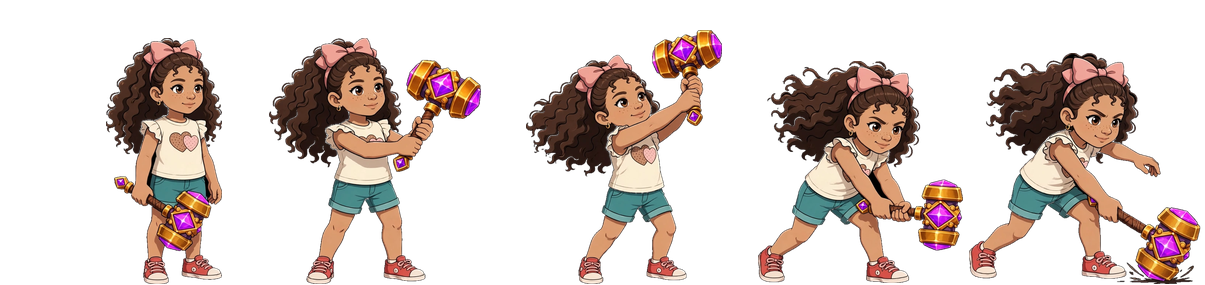
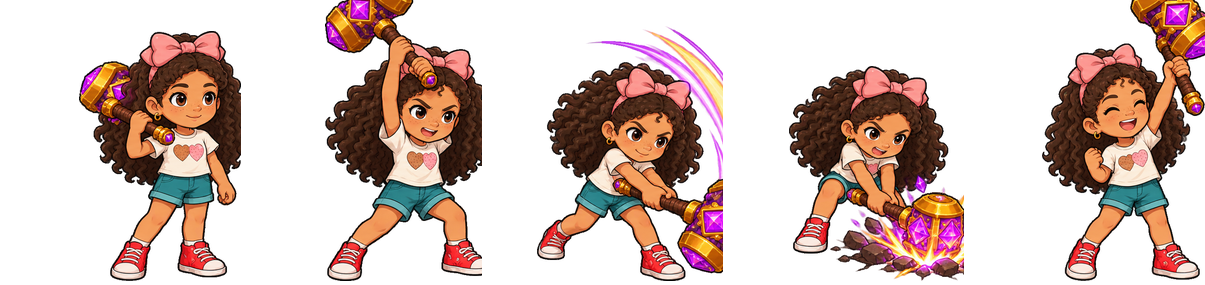
All weapon sheets from ChatGPT takes (Angelo-directed): bow/boomerang/wand/hammer/ray rebuilt on exact grids, canonical body 250, all Player scale factors back to 1.0

diff --git a/src/entities/Player.ts b/src/entities/Player.ts
@@ -103,11 +103,11 @@ export class Player {
       // with every weapon: sword 310px, bow 198px, boomerang 209px, wand 220px,
       // hammer 241px, ray 235px.
       angely_sword: scaleForHeight("angely", HEIGHT, "idle"), // ChatGPT take 2026-10-21: body canonical 250
-      angely_bow: scaleForHeight("angely", HEIGHT, "idle") * 1.263,
-      angely_hammer: scaleForHeight("angely", HEIGHT, "idle") * 1.037,
-      angely_boomerang: scaleForHeight("angely", HEIGHT, "idle") * 1.196,
-      angely_wand: scaleForHeight("angely", HEIGHT, "idle") * 1.136,
-      angely_ray: scaleForHeight("angely", HEIGHT, "idle") * 1.064,
+      angely_bow: scaleForHeight("angely", HEIGHT, "idle"),
+      angely_hammer: scaleForHeight("angely", HEIGHT, "idle"),
+      angely_boomerang: scaleForHeight("angely", HEIGHT, "idle"),
+      angely_wand: scaleForHeight("angely", HEIGHT, "idle"),
+      angely_ray: scaleForHeight("angely", HEIGHT, "idle"),
       angely_swim: scaleForHeight("angely", HEIGHT, "idle"),
     };
     this.bubbles = scene.add

diff --git a/art/staging/chatgpt_take/process_weapon.py b/art/staging/chatgpt_take/process_weapon.py
@@ -1,0 +1,97 @@
+import sys
+import numpy as np
+from PIL import Image
+from scipy import ndimage
+
+WEAPONS = {
+    'bow':       dict(frame=(224, 222), origin=(0.3886, 0.982),  slots=5),
+    'boomerang': dict(frame=(220, 224), origin=(0.5699, 0.9821), slots=5),
+    'wand':      dict(frame=(249, 293), origin=(0.3564, 0.9863), slots=5),
+    'hammer':    dict(frame=(241, 285), origin=(0.6999, 0.986),  slots=5),
+    'ray':       dict(frame=(243, 251), origin=(0.475, 0.9841),  slots=6),
+}
+
+def defringe(img):
+    a = np.asarray(img).astype(np.float32)
+    alpha = a[..., 3]
+    solid = alpha >= 200
+    if not solid.any():
+        return img
+    near = ndimage.binary_dilation(solid, iterations=2) & (alpha >= 16) & ~solid
+    if near.any():
+        _, inds = ndimage.distance_transform_edt(~solid, return_indices=True)
+        out = a.copy()
+        out[near] = a[tuple(inds[:, near])]
+        return Image.fromarray(out.astype(np.uint8), 'RGBA')
+    return img
+
+def process(name):
+    cfg = WEAPONS[name]
+    FW, FH = cfg['frame']
+    OX, OY = int(cfg['origin'][0] * FW), int(cfg['origin'][1] * FH)
+    raw = Image.open(f'art/staging/chatgpt_take/{name}_raw.png').convert('RGBA')
+    a = np.asarray(raw)
+    H, W = a.shape[:2]
+    present = a[..., 3] >= 24
+    proj = ndimage.gaussian_filter1d(present.sum(axis=0).astype(float), 3)
+    n = cfg['slots']
+    cuts = [0]
+    for i in range(n - 1):
+        mid = int((i + 1) * W / n)
+        lo, hi = max(0, mid - 70), min(W, mid + 70)
+        cuts.append(lo + int(np.argmin(proj[lo:hi])))
+    cuts.append(W)
+    poses = []
+    for idx in range(n):
+        sx0, sx1 = cuts[idx], cuts[idx + 1]
+        sub_a = a[:, sx0:sx1]
+        mask = sub_a[..., 3] >= 24
+        lab, nc = ndimage.label(mask)
+        if nc == 0:
+            poses.append(None); continue
+        sizes = ndimage.sum(mask, lab, range(1, nc + 1))
+        main = int(np.argmax(sizes)) + 1
+        my, mx = ndimage.center_of_mass(mask, lab, main)
+        keep = np.zeros_like(mask)
+        objs = ndimage.find_objects(lab)
+        for i in range(1, nc + 1):
+            if i == main:
+                keep |= lab == i
+                continue
+            sl = objs[i - 1]
+            touches_edge = sl[1].start <= 1 or sl[1].stop >= (sx1 - sx0) - 1
+            if not touches_edge and sizes[i - 1] >= 0.015 * sizes[main - 1]:
+                keep |= lab == i
+        out = sub_a.copy()
+        out[..., 3] = np.where(keep, sub_a[..., 3], 0)
+        ys, xs = np.where(keep)
+        crop = Image.fromarray(out, 'RGBA').crop((int(xs.min()), int(ys.min()), int(xs.max()) + 1, int(ys.max()) + 1))
+        poses.append(defringe(crop))
+    # scale from pose 0 solid content height (standing at rest)
+    p0 = np.asarray(poses[0])
+    solid0 = p0[..., 3] >= 200
+    ys = np.where(solid0.any(axis=1))[0]
+    body_h = ys.max() - ys.min() + 1
+    scale = 250.0 / body_h
+    print(f'{name}: cuts {cuts} body_ref {body_h}px scale {scale:.3f}')
+    sheet = Image.new('RGBA', (FW * n, FH), (0, 0, 0, 0))
+    for idx, img in enumerate(poses):
+        if img is None: continue
+        rs = img.resize((max(1, int(img.width * scale)), max(1, int(img.height * scale))), Image.LANCZOS)
+        ra = np.asarray(rs)
+        rys, rxs = np.where(ra[..., 3] >= 24)
+        bot = ra[rys.max() - int(0.30 * (rys.max() - rys.min())):, :]
+        bcols = np.where(bot[..., 3] >= 24)[1]
+        anchor_x = (bcols.min() + bcols.max()) / 2 if len(bcols) else (rxs.min() + rxs.max()) / 2
+        px = int(round(OX - anchor_x))
+        py = int(round(OY - (rys.max() + 1)))
+        cell = Image.new('RGBA', (FW, FH), (0, 0, 0, 0))
+        cell.alpha_composite(rs, (px, py))
+        sheet.paste(cell, (idx * FW, 0))
+    sheet.save(f'public/assets/runtime/angely_{name}.webp', lossless=True)
+    chk = Image.new('RGB', sheet.size, (95, 95, 115)); chk.paste(sheet, (0, 0), sheet)
+    chk.save(f'art/staging/chatgpt_take/{name}_final_check.png')
+    print(f'{name}: sheet built {sheet.size}')
+
+for name in sys.argv[1:]:
+    process(name)
